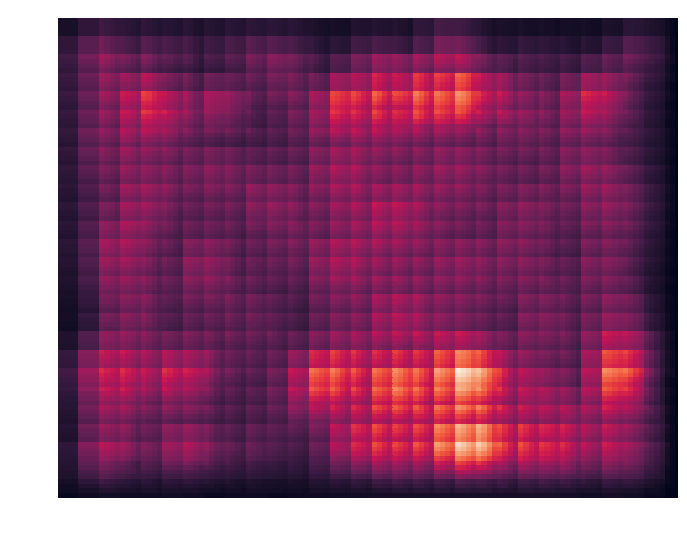
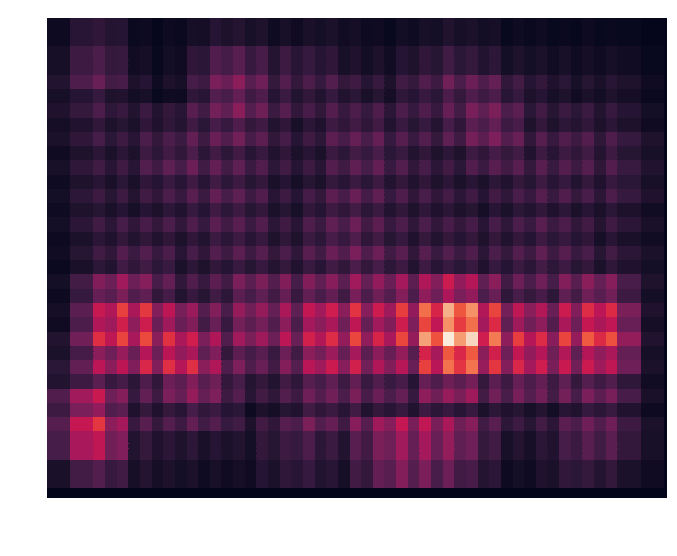
Added alal board mappings, added chess engine updates

diff --git a/scripts/hello_baxter.py b/scripts/hello_baxter.py
@@ -2,10 +2,12 @@
 
 import rospy
 import baxter_interface
+import time
 
 rospy.init_node('Hello_Baxter')
 
 right = baxter_interface.Limb('right')
+right.set_joint_position_speed(0.8)
 left = baxter_interface.Limb('left')
 
 # above = right.joint_angles()
@@ -27,11 +29,6 @@ left = baxter_interface.Limb('left')
 # right.move_to_joint_positions(above)
 # left.move_to_joint_positions(above1)
 
-# left_gripper = baxter_interface.Gripper('right')
-# left_gripper.reboot()
-# left_gripper.calibrate()
-# left_gripper.open()
-
 base_right = {'right_s0': 0.08, 'right_s1': -1.0,
 	'right_e0': 1.19, 'right_e1': 1.94,
 	'right_w0': -0.67, 'right_w1': 1.03, 'right_w2': 0.50}
@@ -45,26 +42,85 @@ base_left = {'left_s0': 1.0, 'left_s1': -1.0,
 # e1 for elbow reach
 # w1 for wrist height/reach
 above = right.joint_angles()
-above['right_s0']=1.12
+above['right_s0']=1.3
 above['right_s1']=0.0
 above['right_e0']=0.0
 above['right_e1']=0.0
 above['right_w0']=0.0
-above['right_w1']=1.2
+above['right_w1']=1.0
 above['right_w2']=0.0
 
 on = right.joint_angles()
-on['right_s0']=1.11
-on['right_s1']=0.27
+on['right_s0']=1.22
+on['right_s1']=0.4
 on['right_e0']=0.0
 on['right_e1']=0.0
 on['right_w0']=0.0
-on['right_w1']=0.56
+on['right_w1']=0.0
 on['right_w2']=0.0
 
-# right.move_to_joint_positions(base_right)
-# left.move_to_joint_positions(base_left)
+#right.move_to_joint_positions(base_right)
+#left.move_to_joint_positions(base_left)
 
-right.move_to_joint_positions(above)
-right.move_to_joint_positions(on)
-right.move_to_joint_positions(above)
+right_gripper = baxter_interface.Gripper('right')
+# right_gripper.reboot()
+right_gripper.calibrate()
+# Percentage of maximum, default 50,40,30,5
+right_gripper.set_parameters({"velocity":50.0, 
+							"moving_force":20.0, 
+							"holding_force":10.0,
+							"dead_zone":5.0})
+# right_gripper.open()
+# right_gripper.close()
+
+# right.move_to_joint_positions(above)
+# right_gripper.open()
+# right.move_to_joint_positions(on)
+# right_gripper.close()
+# time.sleep(0.25)
+# right.move_to_joint_positions(above)
+
+# right.move_to_joint_positions(on)
+# right_gripper.open()
+# time.sleep(0.25)
+# right.move_to_joint_positions(above)
+
+
+position_map = {}
+right_joint_labels = ['right_s0', 'right_s1', 'right_e0', 'right_e1', 'right_w0', 'right_w1', 'right_w2']
+with open("square_positions.txt") as position_labels:
+	for line in position_labels:
+		square_positions = {}
+		joint_positions1 = {}
+		joint_positions2 = {}
+		if len(line) > 18:
+			line = line.strip('\n')
+			line = line.split(":")
+			square = line[0]
+			positions = line[1].split(";")
+			values = positions[1].split(",")
+			for i in range(len(right_joint_labels)):
+				joint_positions1[right_joint_labels[i]] = float(values[i])
+			square_positions[positions[0]] = joint_positions1
+			values = positions[3].split(",")
+			for i in range(len(right_joint_labels)):
+				joint_positions2[right_joint_labels[i]] = float(values[i])
+			square_positions[positions[2]] = joint_positions2
+			position_map[square] = square_positions
+
+#s0,s1,e0,e1,w0,w1,w2
+#position = raw_input("Enter a square: ")
+position = "a8"
+print position_map[position]["above"]
+print position_map[position]["on"]
+right.move_to_joint_positions(position_map[position]["above"])
+right_gripper.open()
+right.move_to_joint_positions(position_map[position]["on"])
+right_gripper.close()
+time.sleep(0.25)
+right.move_to_joint_positions(position_map[position]["above"])
+
+right.move_to_joint_positions(position_map[position]["on"])
+right_gripper.open()
+time.sleep(0.25)
+right.move_to_joint_positions(position_map[position]["above"])

diff --git a/main2.py b/main2.py
@@ -161,9 +161,9 @@ def label_squares_test(chess_squares, chess_squares_count, heatmap, countmap):
 	return square_labels
 
 # model_path = "retrained_graph.pb"
-model_path = "models/inception12.pb"
+model_path = "models/inception13.pb"
 labels_path = "labels.txt"
-labels_path = "inception12.txt"
+#labels_path = "inception12.txt"
 labels = []
 with open(labels_path) as image_labels:
 	for line in image_labels:
@@ -177,21 +177,26 @@ right_joint_labels = ['right_s0', 'right_s1',
 				'right_w0', 'right_w1', 'right_w2']
 with open("square_positions.txt") as position_labels:
 	for line in position_labels:
-    	square_positions = {}
-		joint_positions = {}
-    	line = line.strip('\n')
-		line = line.split(":")
-		square = line[0]
-		positions = line[1].split(";")
-		for i in range(len(right_joint_labels)):
-    		joint_positions[right_joint_labels[i]] = positions[1][i]
-		square_positions[positions[0]] = joint_positions
-		for i in range(len(right_joint_labels)):
-    		joint_positions[right_joint_labels[i]] = positions[3][i]
-		square_positions[positions[2]] = joint_positions
-		position_map[square] = square_positions
+		square_positions = {}
+		joint_positions1 = {}
+		joint_positions2 = {}
+		if len(line) > 18:
+			line = line.strip('\n')
+			line = line.split(":")
+			square = line[0]
+			positions = line[1].split(";")
+			values = positions[1].split(",")
+			for i in range(len(right_joint_labels)):
+				joint_positions1[right_joint_labels[i]] = float(values[i])
+			square_positions[positions[0]] = joint_positions1
+			values = positions[3].split(",")
+			for i in range(len(right_joint_labels)):
+				joint_positions2[right_joint_labels[i]] = float(values[i])
+			square_positions[positions[2]] = joint_positions2
+			position_map[square] = square_positions
     	
 imgpath = "kinect_images_new/white_front/tall.jpeg"
+imgpath = "board_images/camera_image6.jpeg"
 
 chessboard_keypoints = get_keypoints(imgpath)[0]
 
@@ -200,16 +205,16 @@ chess_square_points = create_chess_square_points(chessboard_keypoints)
 img = cv2.imread(imgpath)
 img = crop_image(chessboard_keypoints, img)
 
-window_y = 80
-window_x = 80
+window_y = 100
+window_x = 100
 stepSize = 40
 # 13 dimensional because there are 13 possible classifications
 heatmap = np.zeros((img.shape[0], img.shape[1], 6))
 countmap = np.zeros((img.shape[0], img.shape[1]))
 model = Model(model_path)
-for x in range(0, 41, 10):
-	heatmap, countmap = create_heatmap(img, stepSize, (window_x+x, window_y+x), model, heatmap, countmap)
-# heatmap, countmap = create_heatmap(img, stepSize, (window_x, window_y), model, heatmap, countmap)
+# for x in range(0, 41, 10):
+# 	heatmap, countmap = create_heatmap(img, stepSize, (window_x+x, window_y+x), model, heatmap, countmap)
+heatmap, countmap = create_heatmap(img, stepSize, (window_x, window_y), model, heatmap, countmap)
 
 chess_squares, chess_squares_count = create_chess_squares(chess_square_points, heatmap, countmap)
 
@@ -224,7 +229,7 @@ chess_squares, chess_squares_count = create_chess_squares(chess_square_points, h
 # 	print "Game not over"
 
 visualise_heatmap(img, heatmap, countmap, labels, "heatmaps/")
-
+"""
 # Piece classification testing, checking different angles
 angle_test = glob.glob('angle_test/*')
 for file in angle_test:
@@ -289,3 +294,4 @@ while result == "":
 	if game_over == "":
 		# Game not over
 		print ""
+"""

diff --git a/move_baxter.py b/move_baxter.py
@@ -1,10 +1,19 @@
 import rospy
 import baxter_interface
+import time
 
 def perform_move(initial_square, final_square, position_map):
     rospy.init_node('Perform_Move')
     right = baxter_interface.Limb('right')
     left = baxter_interface.Limb('left')
+    right.set_joint_position_speed(0.8)
+    left.set_joint_position_speed(0.8)
+    right_gripper = baxter_interface.Gripper('right')
+    right_gripper.calibrate()
+    right_gripper.set_parameters({"velocity":50.0, 
+							"moving_force":20.0, 
+							"holding_force":10.0,
+							"dead_zone":5.0})
 
     base_right = {'right_s0': 0.08, 'right_s1': -1.0, 
 	    'right_e0': 1.19, 'right_e1': 1.94, 
@@ -17,13 +26,16 @@ def perform_move(initial_square, final_square, position_map):
     left.move_to_joint_positions(base_left)
 
     right.move_to_joint_positions(position_map[initial_square]["above"])
+    right_gripper.open()
     right.move_to_joint_positions(position_map[initial_square]["on"])
-    # Activate gripper here
+    right_gripper.close()
+    time.sleep(0.25)   
     right.move_to_joint_positions(position_map[initial_square]["above"])
 
     right.move_to_joint_positions(position_map[final_square]["above"])
     right.move_to_joint_positions(position_map[final_square]["on"])
-    # Release gripper here
+    right_gripper.open()
+    time.sleep(0.25)
     right.move_to_joint_positions(position_map[final_square]["above"])
 
     right.move_to_joint_positions(base_right)

diff --git a/test_baxter.py b/test_baxter.py
@@ -40,27 +40,27 @@ with open("square_positions.txt") as position_labels:
 				joint_positions2[right_joint_labels[i]] = float(values[i])
 			square_positions[positions[2]] = joint_positions2
 			position_map[square] = square_positions
-
+"""
 while True:
 	user_move = raw_input("Enter the move you made: ")
 	initial_square = user_move[0:2]
 	final_square = user_move[2:4]
 	perform_move(initial_square, final_square, position_map)
-
 """
+
 while game_over == "":
-    moved_board_state_string, game_over, best_move = my_next_move(board_state_string)
+	moved_board_state_string, game_over, best_move = my_next_move(board_state_string)
 	initial_square = best_move.uci()[0:2]
 	final_square = best_move.uci()[2:4]
 	print initial_square, final_square
 	print "Move made: "+best_move.uci()
 
-    # Baxter makes the move
+	# Baxter makes the move
 	perform_move(initial_square, final_square, position_map)
 
 	board = chess.Board(moved_board_state_string)
 	if board.is_checkmate():
-    		game_over = "Checkmate, I lost."
+			game_over = "Checkmate, I lost."
 	elif board.is_game_over():
 		game_over = "Draw"
 	else:
@@ -72,4 +72,3 @@ while game_over == "":
 	board_state_string = str(board.fen).split("\'")[1]
 	print "Board after user move: "
 	print board
-"""

diff --git a/detect_chessboard.py b/detect_chessboard.py
@@ -21,7 +21,7 @@ def display_detection(dst, img1, img2, matchesMask, keypoints, new_keypoints, kp
 #Based on the code in this tutorial: https://docs.opencv.org/3.3.0/d1/de0/tutorial_py_feature_homography.html
 def get_keypoints(imgpath):
 
-    show_detection = False
+    show_detection = True
 
     MIN_MATCH_COUNT = 10
 

diff --git a/photographer.py b/photographer.py
@@ -31,6 +31,8 @@ def atoi(text):
 def natural_keys(text):
     return [ atoi(c) for c in re.split('(\d+)', text) ]
 
+# Must launch 'roslaunch kinect2_bridge kinect2_bridge.launch'
+
 def image_callback(msg):
 
     path = "board_images"
